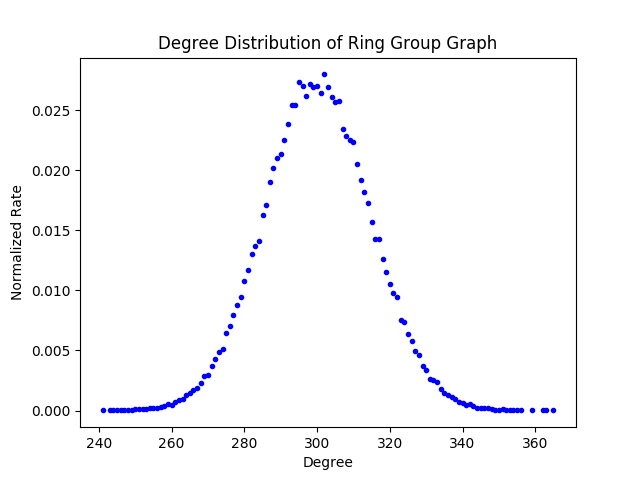
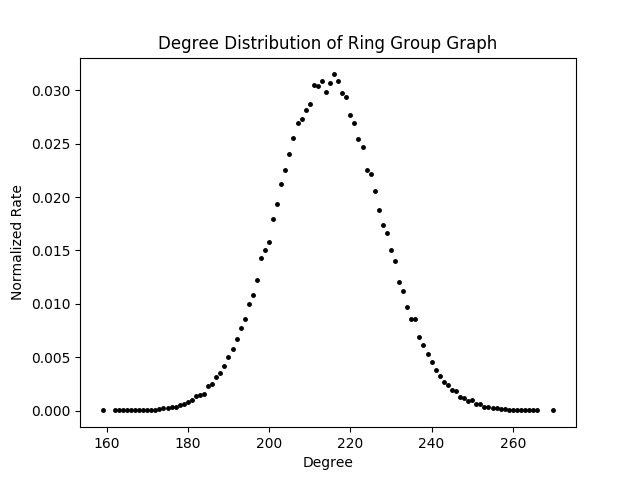
Fixed ring group graphs

diff --git a/Assignment/coauthorship.py b/Assignment/coauthorship.py
@@ -64,7 +64,7 @@ def approximate_brilliance(graph):
     to_remove = set()
     while True:
         min_degree = 2000
-        min_vertex = 0
+        min_vertex = None
         for vertex in graph:
             graph[vertex] = graph[vertex].difference(to_remove)
         for vertex in graph:
@@ -74,7 +74,7 @@ def approximate_brilliance(graph):
                 min_vertex = vertex
                 if degree <= 1:
                     break
-        if min_vertex != 0:
+        if min_vertex is not None:
             to_remove = set()
             independent.add(min_vertex)
             for vertex in graph[min_vertex]:
@@ -133,7 +133,7 @@ def print_coauthorship():
     plt.xlabel('Brilliance')
     plt.ylabel('Normalized Rate')
     plt.title('Brilliance Distribution of \'coauthorship.txt\'')
-    plt.plot(x_data, y_data, marker='.', linestyle='None', color='b')
+    plt.plot(x_data, y_data, marker='.', linestyle='None', color='black', s=10)
     plt.savefig('question2coauthorship.png')
 
 
@@ -143,7 +143,7 @@ def print_ring_group():
     x_data = []
     y_data = []
 
-    graph = make_ring_group(16, 100, 0.02, 0.01)
+    graph = make_ring_group(16, 100, 0.06, 0.03)
     distribution = normalise_distribution(get_brilliance_distribution(graph), len(graph))
 
     for degree in distribution:
@@ -154,7 +154,7 @@ def print_ring_group():
     plt.xlabel('Brilliance')
     plt.ylabel('Normalized Rate')
     plt.title('Brilliance Distribution of Ring Group Graph')
-    plt.plot(x_data, y_data, marker='.', linestyle='None', color='b')
+    plt.plot(x_data, y_data, marker='.', markersize=5, linestyle='None', color='black')
     plt.savefig('question2ring.png')
 
 

diff --git a/Assignment/ring_group.py b/Assignment/ring_group.py
@@ -4,6 +4,7 @@ import matplotlib.pyplot as plt
 
 def make_ring_group(m, k, p, q):
     vertices = m * k
+    edges = 0
 
     # Initialize empty graph
     graph = {}
@@ -12,18 +13,21 @@ def make_ring_group(m, k, p, q):
 
     # Consider each vertex, making edges when necessary
     for u in range(vertices):
-        u_group = u // vertices
-        for v in range(u, vertices):
-            v_group = v // vertices
+        u_group = u // k
+        for v in range(u + 1, vertices):
+            v_group = v // k
             probability = random.random()
-            if u_group == v_group or (v - u == 1) or (u == 0 and v == m*k):
+            if u_group == v_group or (v_group - u_group == 1) or (u_group == 0 and v_group == m - 1):
                 if probability <= p:
+                    edges += 1
                     graph[u].add(v)
                     graph[v].add(u)
             else:
                 if probability <= q:
+                    edges += 1
                     graph[u].add(v)
                     graph[v].add(u)
+    print("Made a ring group graph with", vertices, "vertices and", edges, "edges.")
     return graph
 
 
@@ -107,7 +111,7 @@ def print_graph():
     plt.xlabel('Degree')
     plt.ylabel('Normalized Rate')
     plt.title('Degree Distribution of Ring Group Graph')
-    plt.plot(x_data, y_data, marker='.', linestyle='None', color='b')
+    plt.plot(x_data, y_data, marker='.', markersize=5, linestyle='None', color='black')
     plt.savefig('question1.png')
 
 
